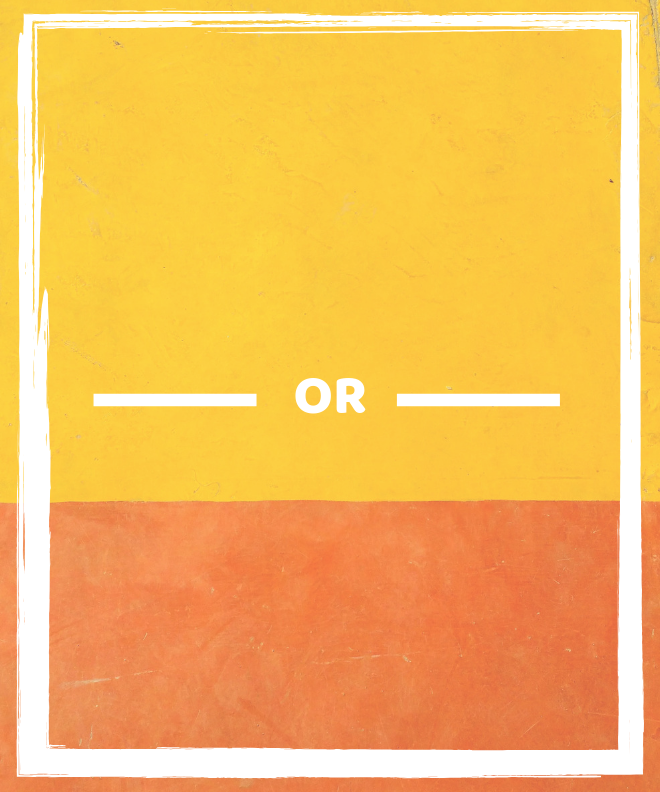
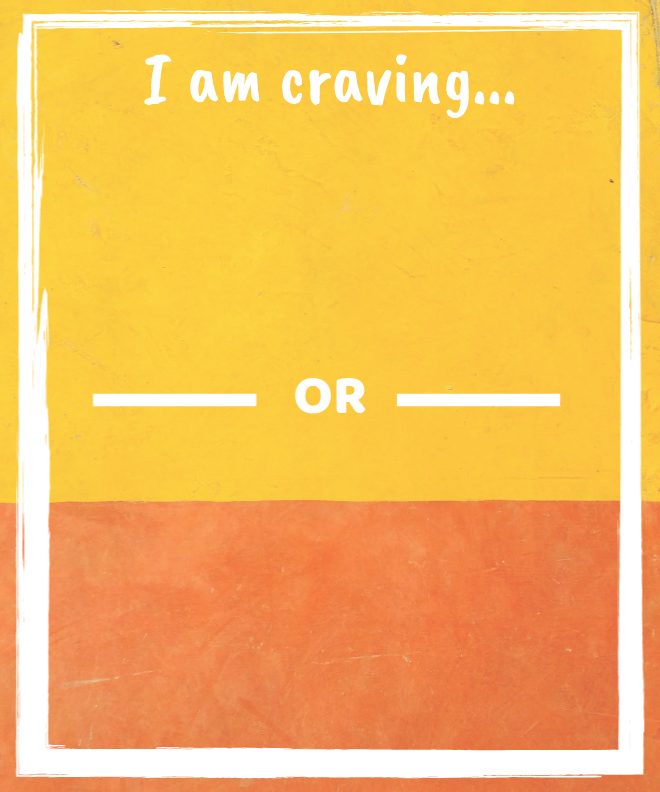
Fix splash styling

diff --git a/frontend/src/components/main/main.css b/frontend/src/components/main/main.css
@@ -4,7 +4,6 @@
     position: relative;
     height: inherit;
     width: inherit;
-    justify-content: space-around;
     min-height: 745px;
 }
 
@@ -19,10 +18,10 @@
     background-image: url('main-cravings.png');
     background-size: cover;
     background-repeat: no-repeat;
-    width: 500px;
+    width: 585px;
     height: 200px;
     position: relative;
-    top: 5rem;
+    top: 8rem;
     right: 10rem;
 }
 

diff --git a/frontend/src/components/food_drink.jsx b/frontend/src/components/food_drink.jsx
@@ -23,7 +23,6 @@ class FoodDrink extends React.Component {
     render() {
         return (
             <div className="food-drink">
-                <h3>I'm craving...</h3>
                 <button onClick={this.foodWheel} className="food-btn">Food</button>
                 <button onClick={this.drinkWheel} className="drink-btn">Drinks</button>
             </div>

diff --git a/frontend/src/components/food_drink.css b/frontend/src/components/food_drink.css
@@ -49,5 +49,6 @@
     flex-direction: column;
     justify-content: center;
     position: relative;
-    right: 2rem;
+    right: 1rem;
+    top: 11rem;
 }
